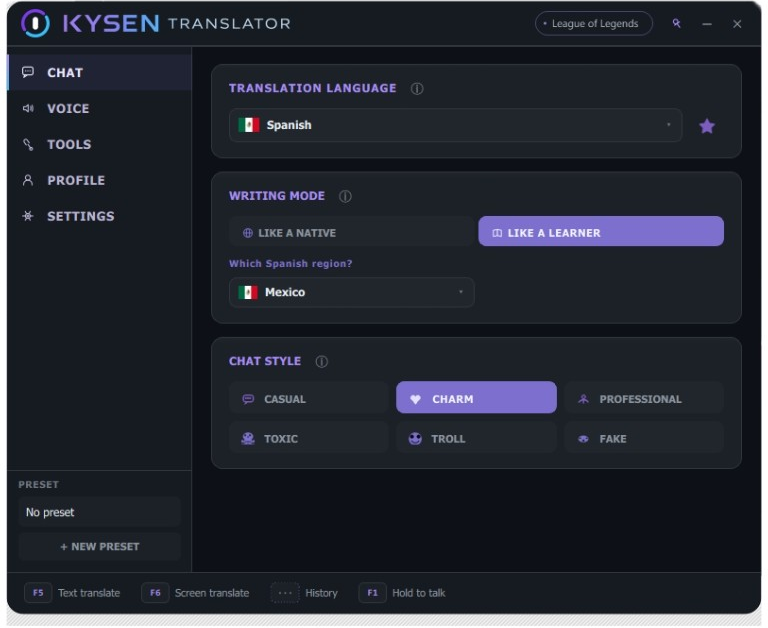
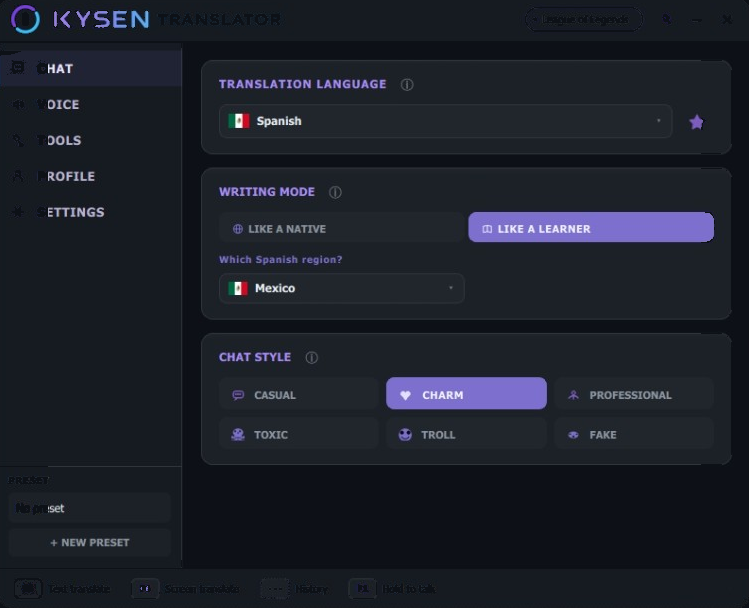
Crop UI screenshot flush — no white edges

diff --git a/README.md b/README.md
@@ -15,7 +15,7 @@
 <p align="center"><b>Speak without borders.</b></p>
 
 <p align="center">
-  <img src="docs/media/ui_chat.png" alt="Kysen Translator, Chat tab" width="720" />
+  <img src="docs/media/ui_chat.png?v=20260812c" alt="Kysen Translator, Chat tab" width="720" />
 </p>
 
 ---
